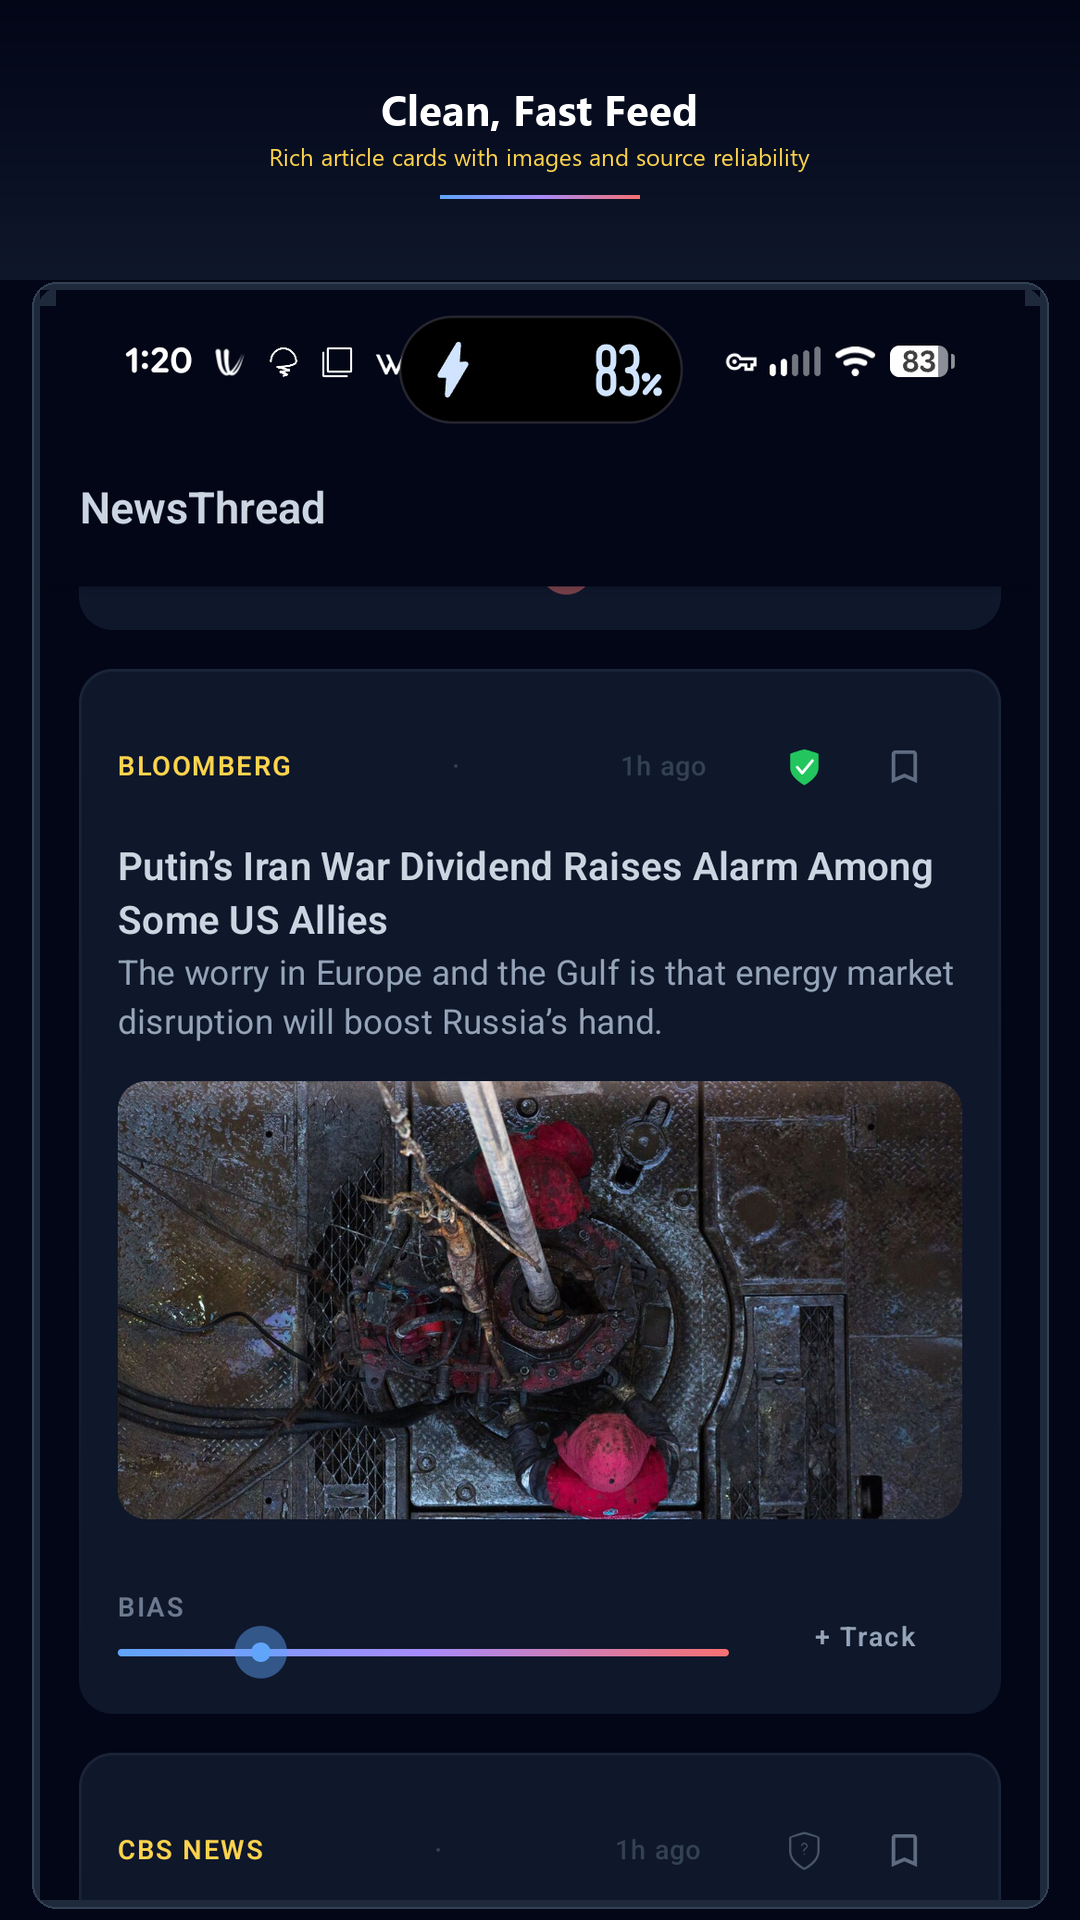
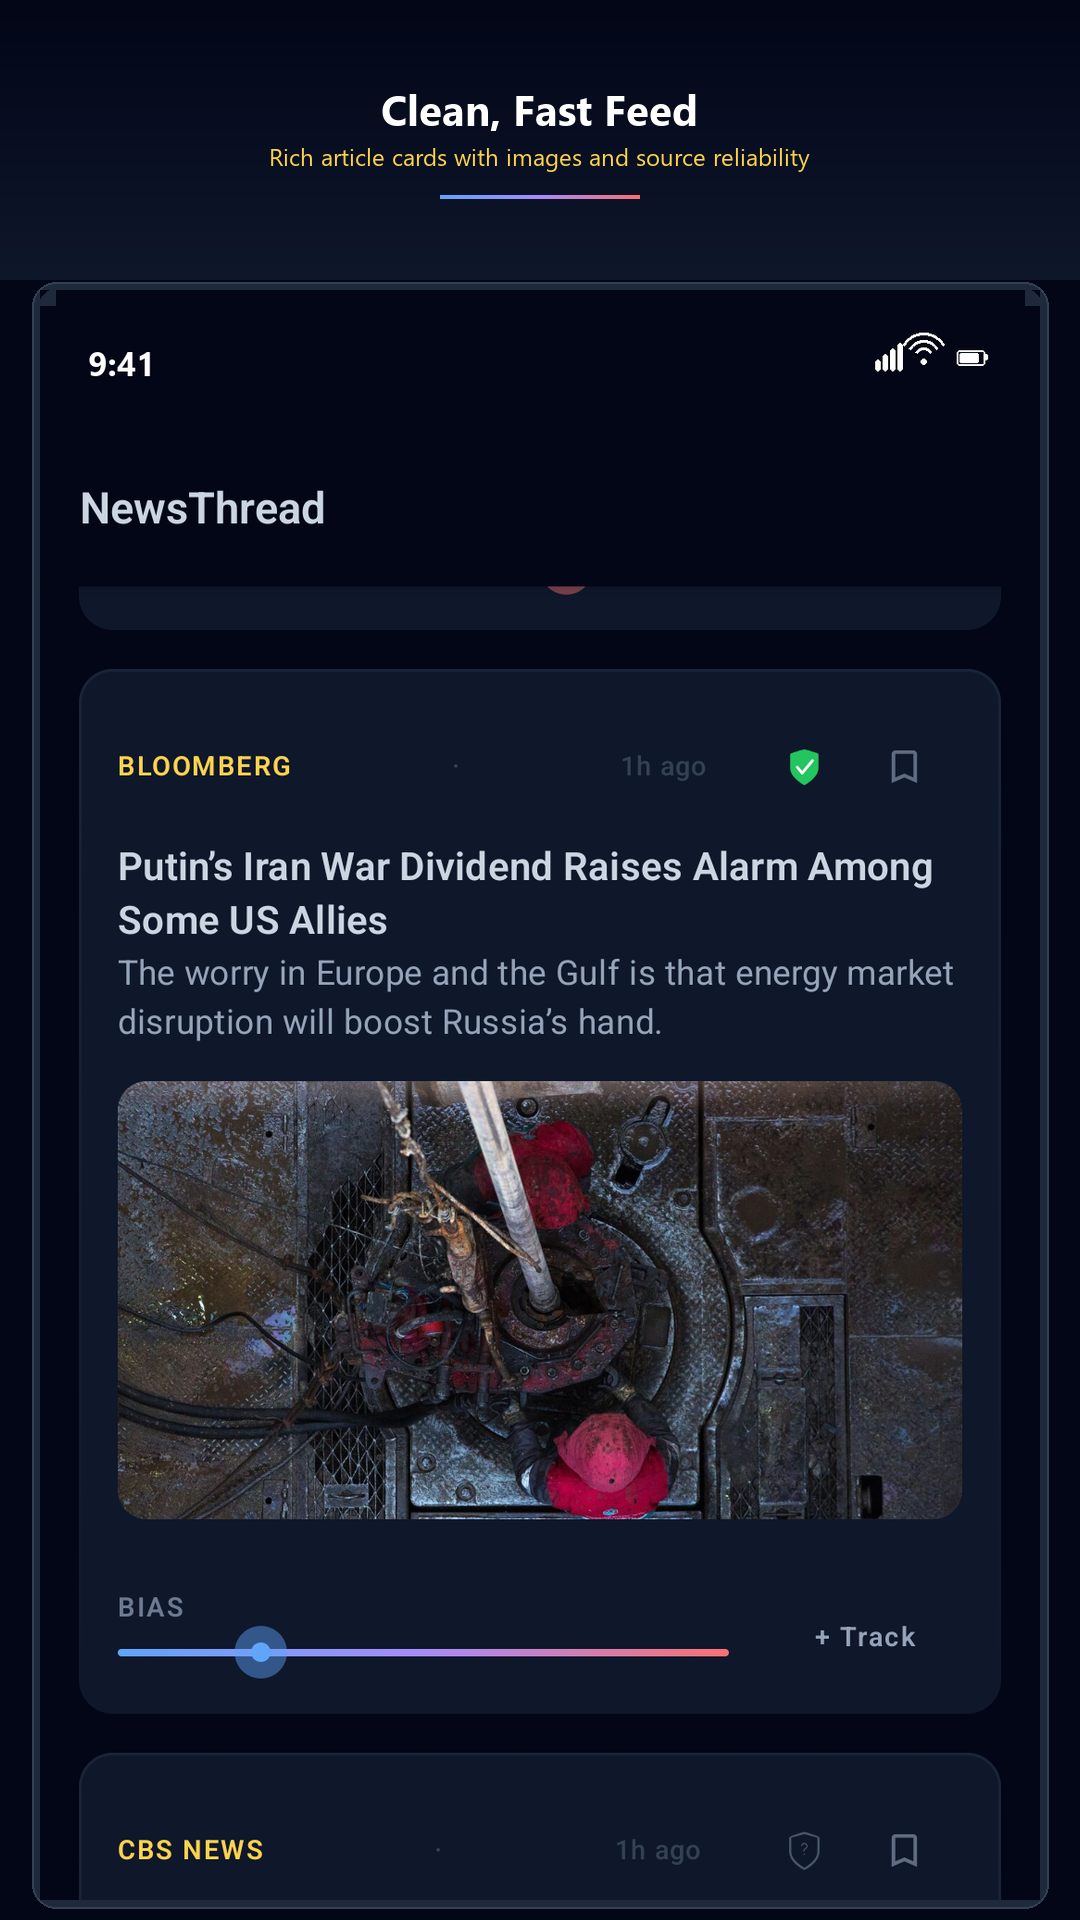
fix(S19/T02): clean status bars on all updated screenshots
- Replace cluttered phone status bars (notifications, battery overlay, app icons)
  with clean minimal '9:41' + signal/wifi/battery
- Regenerate framed store screenshots 2-5 with cleaned source images
- Update generate_store_assets.py to use updated screenshot filenames

diff --git a/generate_store_assets.py b/generate_store_assets.py
@@ -270,25 +270,25 @@ screenshots_config = [
         "output": "screenshot_01_feed_badges.png"
     },
     {
-        "file": "compare_perspectives_bias_spectrum_1.png",
+        "file": "compare_perspectives_updated.png",
         "caption": "Compare Perspectives",
         "subtitle": "See every side of the story on the bias spectrum",
         "output": "screenshot_02_bias_spectrum.png"
     },
     {
-        "file": "Tracking_Screen_New_Updates_Bias_Distribution.png",
+        "file": "tracking_updated.png",
         "caption": "Track Developing Stories",
         "subtitle": "Get notified as news evolves across sources",
         "output": "screenshot_03_tracking.png"
     },
     {
-        "file": "tracked_story_coverage_analysis.png",
+        "file": "story_analysis_updated.png",
         "caption": "Story Analysis",
         "subtitle": "Coverage bias breakdown with Left, Center, Right views",
         "output": "screenshot_04_story_analysis.png"
     },
     {
-        "file": "newsthread_feed.png",
+        "file": "feed_updated.png",
         "caption": "Clean, Fast Feed",
         "subtitle": "Rich article cards with images and source reliability",
         "output": "screenshot_05_feed_clean.png"
